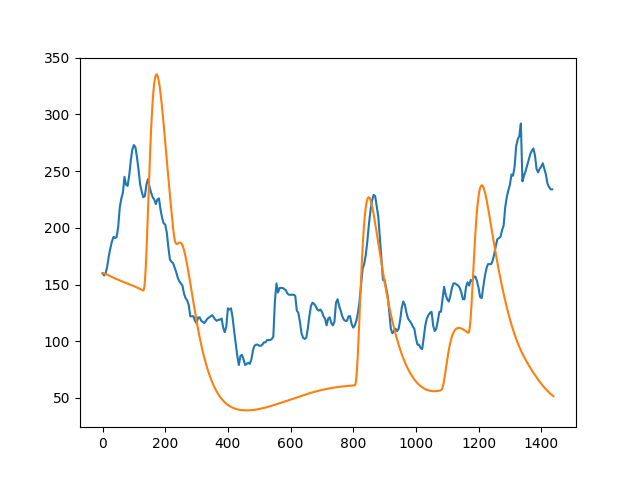
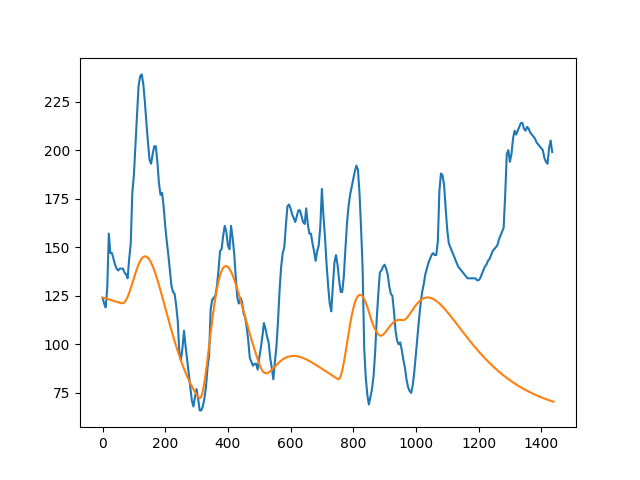
try testing

diff --git a/pump/validation.py b/pump/validation.py
@@ -10,6 +10,7 @@ from dataclasses import dataclass
 from typing import Dict, List
 from scipy.optimize import *
 import pandas as pd
+import pickle
 
 
 @dataclass
@@ -17,10 +18,11 @@ class OhioT1DMTrace:
     G: Dict[int, float]
     M: List[Meal]
     I: defaultdict[int, float]
+    duration: int
 
 keys = ['basalGlucose', 'MCHO', 'w', 'TauS', 'EGP0', 'F01', 'k12', 'RTh', 'RCl', 'ka1', 'ka2', 'ka3', 'St', 'Sd', 'Se', 'ka', 'ke', 'Vi', 'Vg', 'Bio', 'TauM', 'TauGlu', 'TGlu', 'MCRGlu']
 
-def parse_t1d_xml(xml_data, date=None, offset=0) -> OhioT1DMTrace:
+def parse_t1d_xml(xml_data, date=None, offset=0, duration=1440) -> OhioT1DMTrace:
     def parse_datetime(ts):
         return datetime.strptime(ts, "%d-%m-%Y %H:%M:%S")
 
@@ -104,17 +106,17 @@ def parse_t1d_xml(xml_data, date=None, offset=0) -> OhioT1DMTrace:
         # binary search would be more efficient but this is clearer
         anchor_t = min([t for t in G.keys() if t >= anchor_t])
 
-        G = {t - anchor_t: v for t, v in G.items() if t >= anchor_t}
-        M = {t - anchor_t: v for t, v in M.items() if t >= anchor_t}
-        I = {t - anchor_t: v for t, v in I.items() if t >= anchor_t}
+        G = {t - anchor_t: v for t, v in G.items() if t >= anchor_t and t <= anchor_t + duration}
+        M = {t - anchor_t: v for t, v in M.items() if t >= anchor_t and t <= anchor_t + duration}
+        I = {t - anchor_t: v for t, v in I.items() if t >= anchor_t and t <= anchor_t + duration}
         I = defaultdict(float, I)
 
 
     meals = []
     for (t, carbs) in M.items():
-        meals.append(Meal(t, int(carbs), 10))
+        meals.append(Meal(t, int(carbs), DEFAULT_MEAL))
 
-    return OhioT1DMTrace(G, meals, I)
+    return OhioT1DMTrace(G, meals, I, duration)
 
 def interpolate_glucose(G: Dict[int, float], duration: int):
     raw = np.full(shape=(duration,), fill_value=np.nan)
@@ -201,18 +203,12 @@ def plot_predictions(variables, trace: OhioT1DMTrace, duration: int, path: str):
 
 # TODO: look at 575 more
 
-def fit_params():
-    with open('/home/ndate/Research/OhioT1DM/2018/train/591-ws-training.xml') as f:
-        data = f.read()
-
-    trace = parse_t1d_xml(data, date='31-08-2021', offset=360)
+def fit_params(trace, duration):
     initial = patient_original({'basalGlucose': 6.5})
     initial['basalGlucose'] = 6.5
 
     model = HovorkaModel(initial)
     state = model.get_init_state(trace.G[0])
-
-    duration = 1440
 
     initial_vec = np.zeros(len(keys) + len(state))
 
@@ -239,10 +235,54 @@ def fit_params():
 
     plot_predictions(optimal, trace, duration, 'after.png')
 
+    return result.x[:len(keys)]
+
+def evaluate_fit(params: np.ndarray, trace: OhioT1DMTrace, duration: int):
+    def state_only_objective(state):
+        variables = np.hstack([params, state])
+        return harness(variables, trace, duration)
+
+    def state_only_plot(state, path):
+        variables = np.hstack([params, state])
+        plot_predictions(variables, trace, duration, path)
+    
+    initial = patient_original({'basalGlucose': 6.5})
+    initial['basalGlucose'] = 6.5
+
+    model = HovorkaModel(initial)
+    state = model.get_init_state(trace.G[0])
+
+    duration = 1440
+
+    initial_vec = np.array(state)
+
+    state_only_plot(initial_vec, 'before.png')
+
+    print(f'initial error: {state_only_objective(initial_vec)}')
+
+    bounds = [(var * 0.2, var * 4) for var in initial_vec]
+
+    objective_func = state_only_objective
+    result = minimize(objective_func, initial_vec, bounds=bounds, tol=1e-3)
+    
+    optimal = result.x
+
+    state_only_plot(optimal, 'after.png')
     breakpoint()
 
 
 if __name__ == '__main__':
-    fit_params()
+    with open('/home/ndate/Research/OhioT1DM/2018/train/588-ws-training.xml') as f:
+        data = f.read()
+    trace = parse_t1d_xml(data, date='31-08-2021', offset=360)
+
+    test = parse_t1d_xml(data, date='03-08-2021', offset=360)
+
+    print(test.G[0])
+
+    params = fit_params(trace, 1440)
+    with open('params.pickle', 'wb') as f:
+        pickle.dump(params, f)
+    evaluate_fit(params, test, 1440)
     # with open('/home/ndate/Research/OhioT1DM/2018/train/588-ws-training.xml') as f:
     #     data = f.read()
